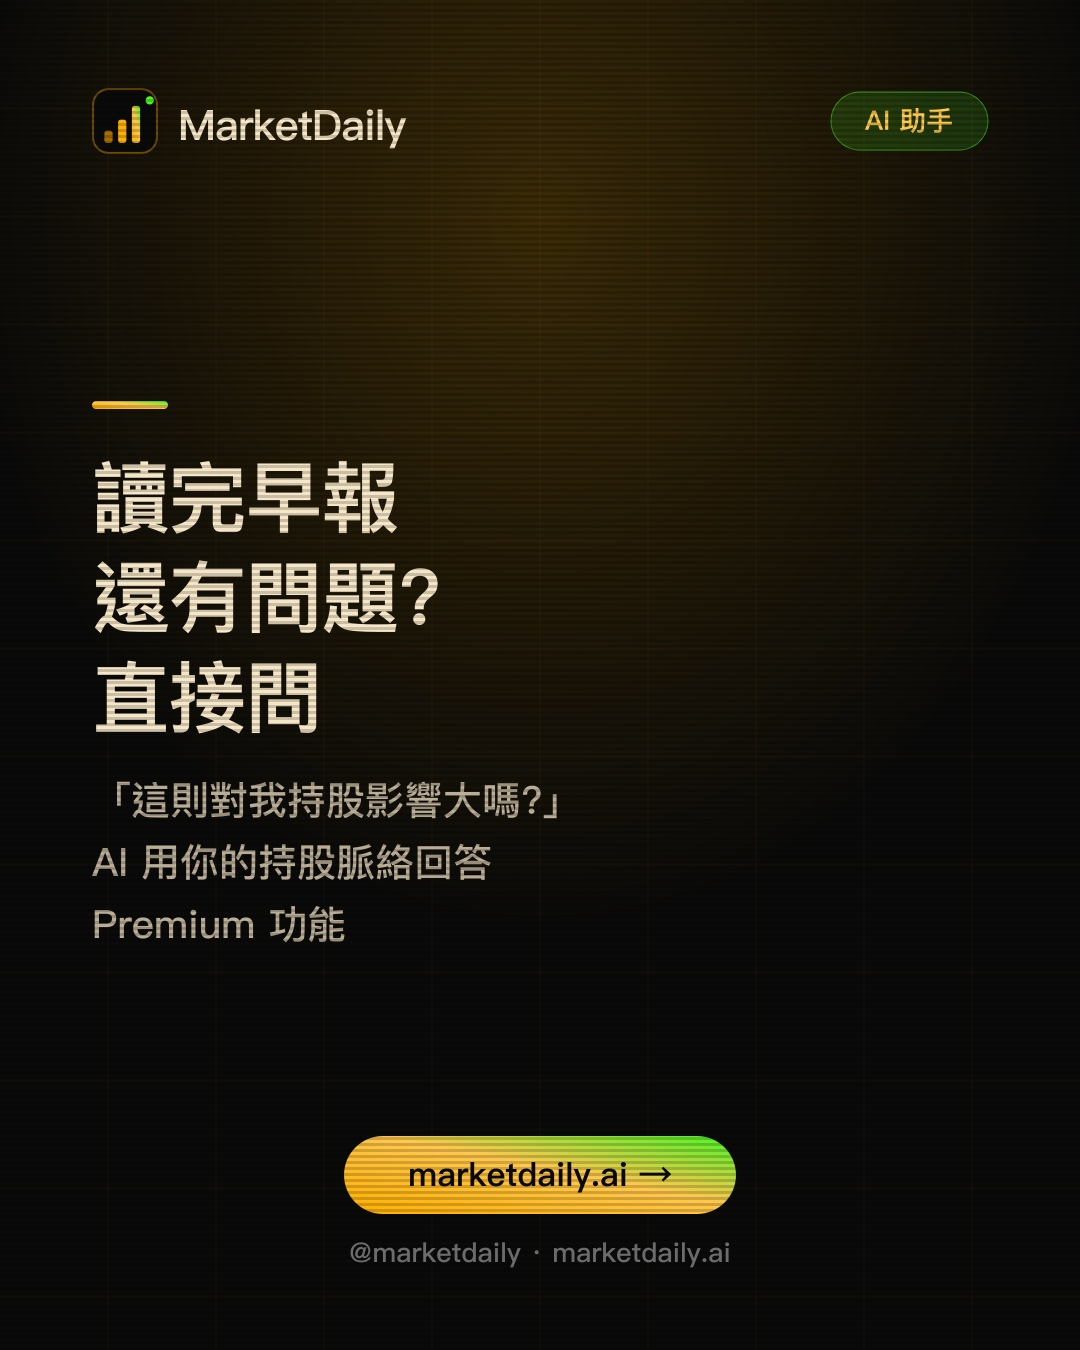
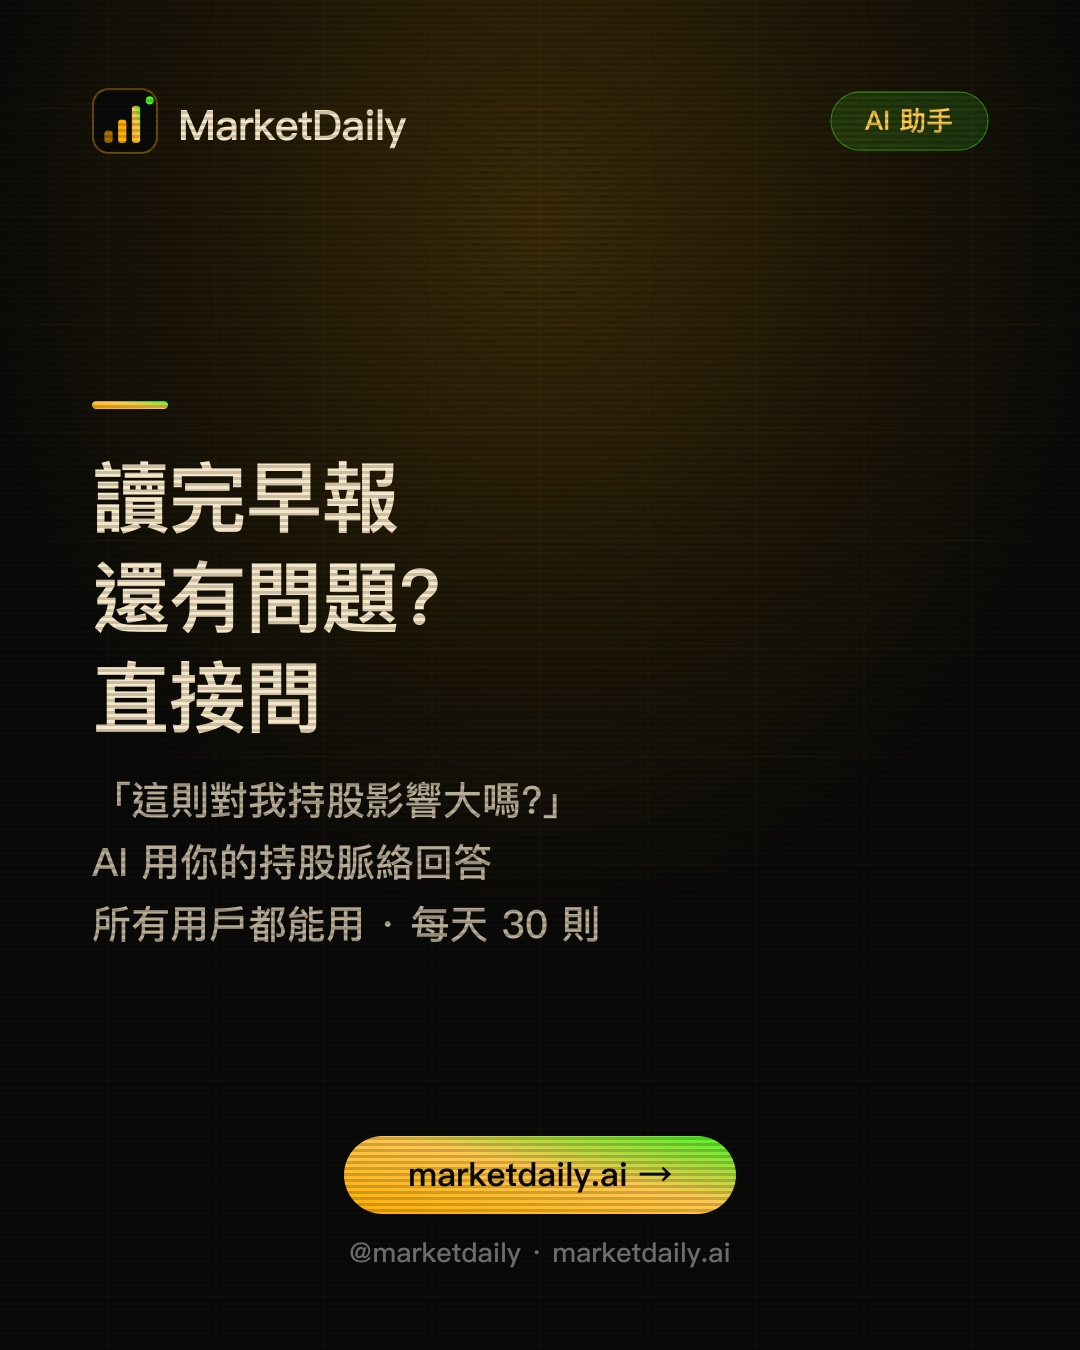
fix(marketing): v3_ai_assistant_01 圖卡去掉「Premium 功能」——免費化口徑+AI對話全開現況
明日 14:00 佇列下一篇的圖卡烙著 Premium 字樣(7/9 免費化 caption 有清但圖沒重渲染),
改「所有用戶都能用 · 每天 30 則」重渲染+部署替換。

Claude-Session: https://claude.ai/code/session_018a3283o2rxnjpmWrBrzYt8

Changed region(s): [[0.0917, 0.6533, 0.3361, 0.7156], [0.3667, 0.6533, 0.55, 0.7156]]

diff --git a/marketing/make_v3_cards.py b/marketing/make_v3_cards.py
@@ -93,7 +93,7 @@ CARDS = [
         "tag": "AI 助手",
         "accent": EMERALD,
         "headline": "讀完早報\n還有問題?\n直接問",
-        "body": "「這則對我持股影響大嗎?」\nAI 用你的持股脈絡回答\nPremium 功能",
+        "body": "「這則對我持股影響大嗎?」\nAI 用你的持股脈絡回答\n所有用戶都能用 · 每天 30 則",
         "cta": "marketdaily.ai →",
     },
     {
